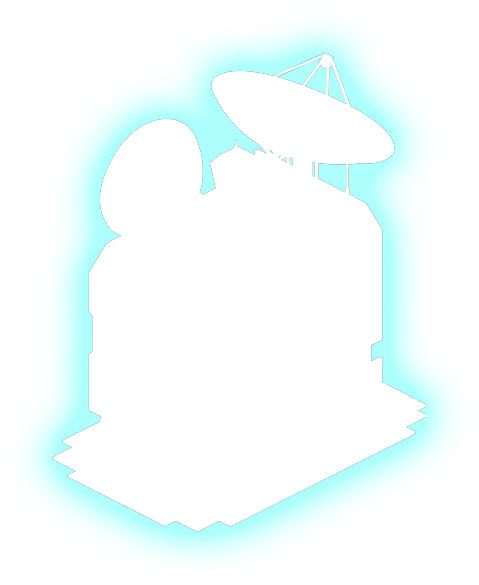
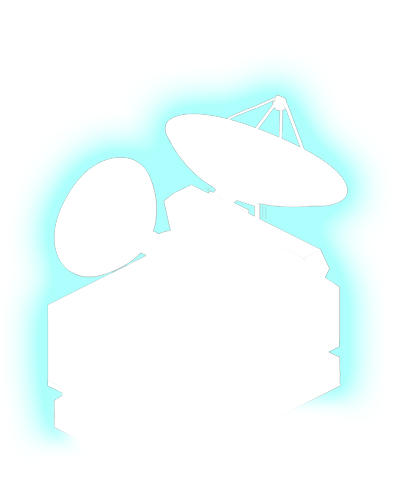
added satellite-tv

Changed region(s): [[0.0305, 0.0585, 0.9466, 0.9645], [0.3053, 0.5261, 0.3664, 0.5553]]

diff --git a/src/buildings/config.ts b/src/buildings/config.ts
@@ -99,8 +99,14 @@ import cyberArenaLevel2Stroke from './cyber-arena/2-stroke.png';
 import cyberArenaLevel1Stroke from './cyber-arena/1-stroke.png';
 import cyberArenaLevel0Stroke from './cyber-arena/0-stroke.png';
 import { TowerLevel, TowersTypes } from '../effector/towers-progress/store';
+import satelliteTvLevel0Img from './satellite-tv/0.png';
+import satelliteTvLevel0Stroke from './satellite-tv/0-stroke.png';
 import satelliteTvLevel1Img from './satellite-tv/1.png';
 import satelliteTvLevel1Stroke from './satellite-tv/1-stroke.png';
+import satelliteTvLevel2Img from './satellite-tv/2.png';
+import satelliteTvLevel2Stroke from './satellite-tv/2-stroke.png';
+import satelliteTvLevel3Img from './satellite-tv/3.png';
+import satelliteTvLevel3Stroke from './satellite-tv/3-stroke.png';
 import partnerOneLevel0Img from './partners-build/partner-one/0.png';
 import partnerOneLevel0Stroke from './partners-build/partner-one/0-stroke.png';
 import partnerOneLevel1Img from './partners-build/partner-one/1.png';
@@ -605,26 +611,27 @@ class BuildingsService {
       title: 'Спутниковое ТВ',
       wideTower: false,
       zIndex: ZIndexes.BUILDING_TWO_LEVEL,
-      maxLevel: TowerLevel.low,
-      hide: true,
-      width: 479,
-      height: 585,
-      areaCoords: '80,46,398,531',
-      position: [25.9, 30],
+      maxLevel: TowerLevel.high,
+      width: 393,
+      height: 479,
+      areaCoords: '45,132,340,454',
+      position: [20.1, 32.9],
       ref: null,
+      [TowerLevel.deactive]: {
+        img: satelliteTvLevel0Img,
+        shadowImg: satelliteTvLevel0Stroke,
+      },
       [TowerLevel.low]: {
         img: satelliteTvLevel1Img,
         shadowImg: satelliteTvLevel1Stroke,
       },
-      // TODO: не настоящая картинка
       [TowerLevel.mid]: {
-        img: bankLevel2Img,
-        shadowImg: bankLevel2Stroke,
+        img: satelliteTvLevel2Img,
+        shadowImg: satelliteTvLevel2Stroke,
       },
-      // TODO: не настоящая картинка
       [TowerLevel.high]: {
-        img: airportLevel3Img,
-        shadowImg: airportLevel3Stroke,
+        img: satelliteTvLevel3Img,
+        shadowImg: satelliteTvLevel3Stroke,
       },
     },
     [TowersTypes.PARTNER_ONE]: {

diff --git a/src/effector/towers-progress/store.ts b/src/effector/towers-progress/store.ts
@@ -254,7 +254,7 @@ const initState: TowersProgressStoreType = {
     productId: 1,
     points: 0,
     level: {
-      id: TowerLevel.low,
+      id: TowerLevel.deactive,
       name: '0 уровень',
       value: 0,
     },
